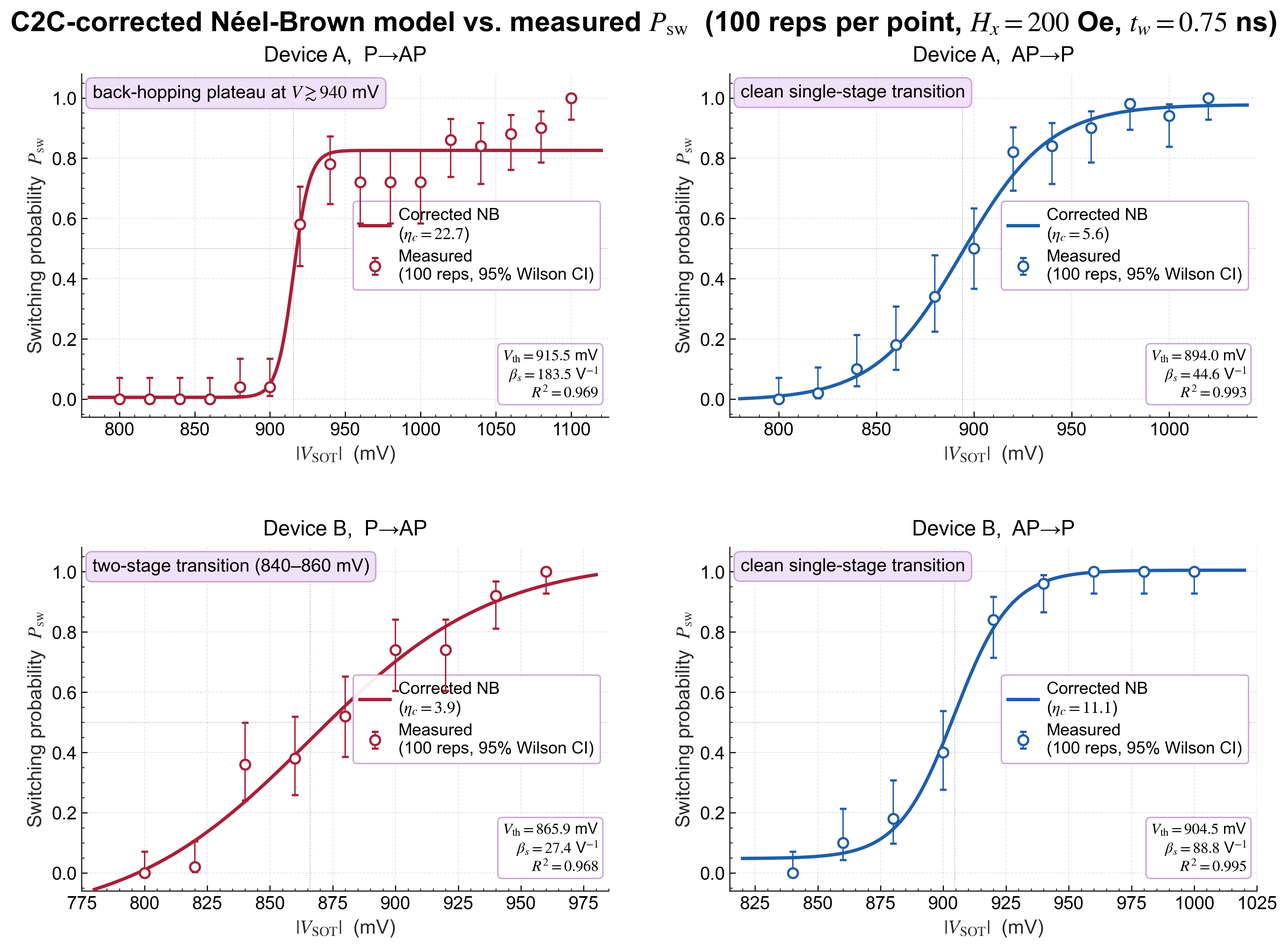
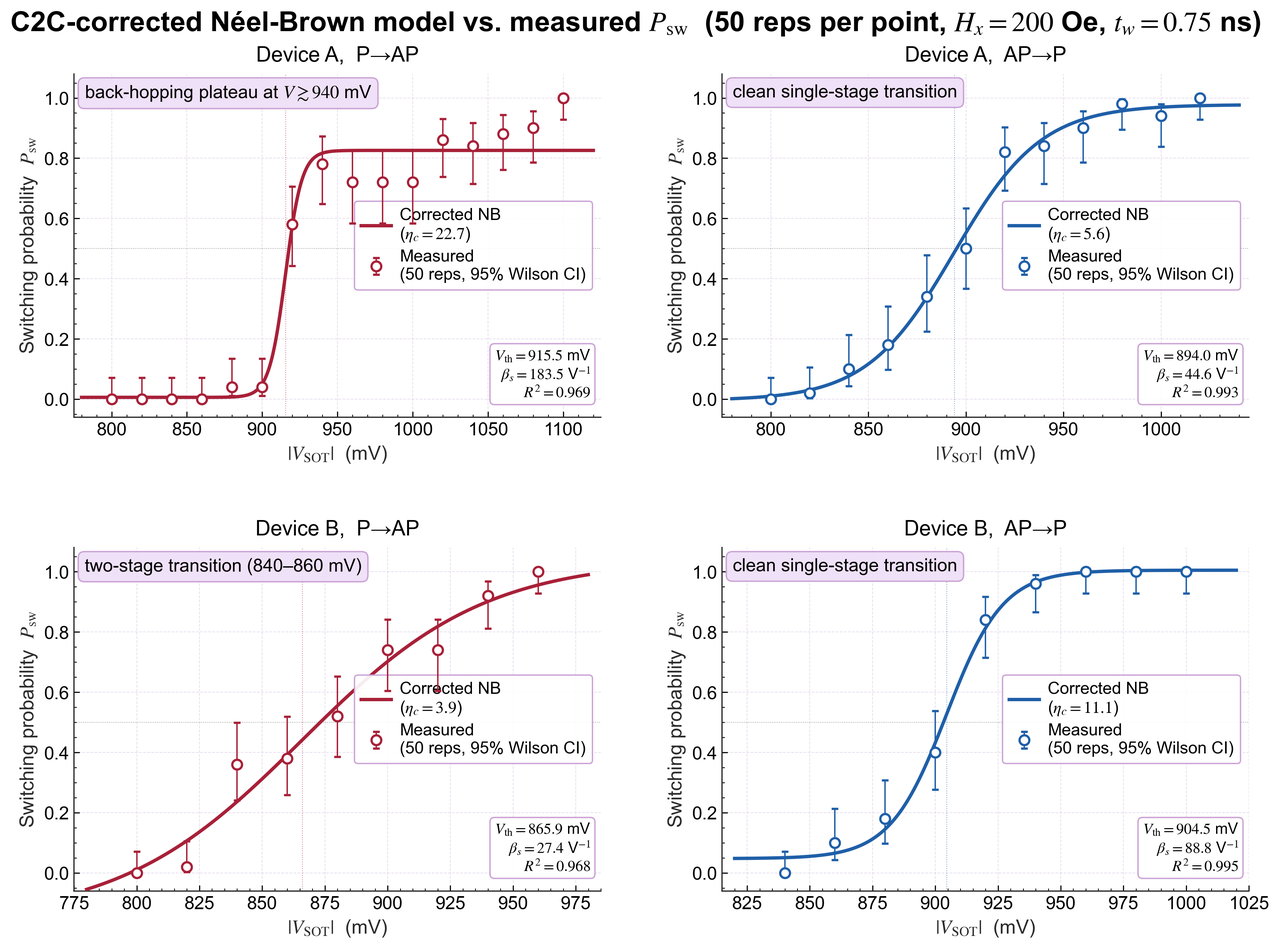
fix(ch02): close the gaps the direction-swap verification found
Seven follow-ups to c1c1195, all found by an adversarial pass over that
commit:

- The two LaTeX-subscript direction labels were missed by the swap (the
  script matched Unicode arrows and $\to$ but not \mathrm{AP\to P}):
  the 2.3.2 log-linear fitted laws and note-e5-stray's splitting
  definition both contradicted the tables they sit beside. Now the
  positive branch is V_{P->AP} = 0.82 - 0.17 ln t and the splitting is
  written V_th^{P->AP} - V_th^{AP->P}, matching Tables 2.7/2.8 and
  scripts/15's README.
- fig 2.14 drew n = 50 error bars while five in-figure strings still said
  '100 reps'; the count is now interpolated from N_CYCLES and the figure
  is regenerated.
- Section 2.3.6 quoted the 2.3.2 protocol as K = 100 in three places
  including the fig 2.19 caption, and fig 2.19 baked K = 100 into the
  plot. All now use K = 50 (K_REF, hoisted above its first use), and the
  claim that K = 100 'suffices for curve characterisation' is rewritten
  honestly: at K = 50 the mid-range 95% half-width is 14.0% (the
  regenerated figure prints exactly that), so K supports the fitted
  parameters rather than single-point probabilities, and epsilon = 0.1 at
  mid-range needs K >~ 106.
- run_e5.py kept its historical p2ap/ap2p keys (renaming them would
  invalidate the committed JSON filenames) but its docstring state map and
  plot legend still read backwards; the labels are corrected, the keys are
  documented as historical, and the panel is regenerated.
[…]

diff --git a/scripts/08_sampling_effect/hw_sampling_reliability.py b/scripts/08_sampling_effect/hw_sampling_reliability.py
@@ -29,6 +29,10 @@ import matplotlib.pyplot as plt
 import matplotlib.ticker as mticker
 from matplotlib.gridspec import GridSpec
 
+# Repetition count of the §2.3.2 characterisation protocol: the committed
+# per-shot records in 05_experimental_raw_data hold 50 cycles per voltage.
+K_REF = 50
+
 # ── Style ────────────────────────────────────────────────────────────────
 THU_DEEP, THU_MID, THU_SOFT, THU_PALE, THU_TINT = \
     "#660874", "#8B3A9E", "#A966BE", "#C99FD4", "#EFE0F7"
@@ -363,8 +367,8 @@ K_guide = K0 * (e0 / eps_guide)**2
 ax_f.loglog(eps_guide * 100, K_guide, color=THU_PALE, lw=1.0, ls=":",
             label=r"$\propto \varepsilon^{-2}$ guide", zorder=3)
 
-ax_f.axhline(100, color=CHARCOAL, lw=0.8, ls=":", alpha=0.55)
-ax_f.text(1.0, 110, r"$K = 100$",
+ax_f.axhline(K_REF, color=CHARCOAL, lw=0.8, ls=":", alpha=0.55)
+ax_f.text(1.0, K_REF * 1.1, rf"$K = {K_REF}$",
           color=CHARCOAL, ha="left", va="bottom")
 
 ax_f.set_xlabel(r"Target precision  $\varepsilon$ (%)")
@@ -387,13 +391,12 @@ print(f"\nSaved  {outpath}")
 plt.close(fig)
 
 # ═════════════════════════════════════════════════════════════════════════
-# 7. §2.3.3 K = 100 context
+# 7. §2.3.2 characterisation-protocol context
 # ═════════════════════════════════════════════════════════════════════════
 print()
 print("=" * 78)
-print("  Context: the §2.3.3 K = 100 characterisation protocol")
+print(f"  Context: the §2.3.2 K = {K_REF} characterisation protocol")
 print("=" * 78)
-K_REF = 100
 for p in PS:
     lo, hi = 1e-4, 0.5
     for _ in range(60):
@@ -403,5 +406,5 @@ for p in PS:
         else:
             lo = mid
     eps_95 = hi
-    print(f"  p = {p:.1f}:  at K = 100, 95% CI half-width  ε ≈ "
+    print(f"  p = {p:.1f}:  at K = {K_REF}, 95% CI half-width  ε ≈ "
           f"{eps_95:.4f}  ({eps_95*100:.2f}%)")

diff --git a/scripts/15_bias_field_effects/run_e5.py b/scripts/15_bias_field_effects/run_e5.py
@@ -13,8 +13,14 @@ features the macrospin picture reproduces:
   (iii) two-segment transitions (not expected from a single macrospin).
 
 Directions at the fig 2.11 workpoint (0.75 ns, Cayley, self-heating ON):
-  p2ap: pap=1 (start m_z ~ -1 = P), drive -I, target m_z = +1.
-  ap2p: pap=0 (start m_z ~ +1 = AP), drive +I, target m_z = -1.
+  p2ap (key kept for the on-disk artifact names): pap=1, i.e. start
+      m_z ~ -1 = AP, drive -I, target m_z = +1 = P. This is an AP->P event.
+  ap2p (likewise historical): pap=0, start m_z ~ +1 = P, drive +I,
+      target m_z = -1 = AP. This is a P->AP event.
+  The two keys are named backwards relative to the physics (m_z = +1 is the
+  parallel state, see CLAIMS.md); they are retained only so the committed
+  e5_*.json filenames stay valid. Every human-facing label uses the physical
+  direction.
 
 Modes:
   python run_e5.py --direction p2ap --hstray 50    # -> e5_p2ap_h50.json
@@ -149,8 +155,9 @@ def analyze():
         for d in runs:
             if d["hstray_oe"] != h:
                 continue
-            c, lbl = (NAVY, "P" + r"$\rightarrow$" + "AP") if d["direction"] == "p2ap" \
-                else (CRIMSON, "AP" + r"$\rightarrow$" + "P")
+            # the "p2ap" key runs pap=1 / -I, which is physically AP->P
+            c, lbl = (NAVY, "AP" + r"$\rightarrow$" + "P") if d["direction"] == "p2ap" \
+                else (CRIMSON, "P" + r"$\rightarrow$" + "AP")
             ax.plot(d["grid_uA"], d["psw"], "o-", ms=4, lw=1.2, color=c, label=lbl)
         ax.axhline(0.5, color="gray", lw=0.5, ls=":")
         ax.set_title(rf"$H_z$ = {h:.0f} Oe", fontsize=12)

diff --git a/scripts/07_process_variability/sigmoid_fig.py b/scripts/07_process_variability/sigmoid_fig.py
@@ -3,8 +3,8 @@ Generate Figure 2.3-4 — the four 0.75 ns Sigmoid measurements (same-batch),
 clearly separated from the external 5 ns Sigmoid reference (different batch).
 
 Data source: each point's Psw is encoded in the measurement filename
-(e.g. 'device4pulse width_0.750 ns V_SOT 920.0 mV Hx 200 Oe Psw= 0.580.txt'),
-100 cycle repetitions per voltage.
+(e.g. 'device4pulse width_0.750 ns V_SOT 920.0 mV Hx 200 Oe Psw= 0.580.txt');
+the per-shot records in 05_experimental_raw_data hold 50 cycles per voltage.
 """
 
 import numpy as np
@@ -187,7 +187,7 @@ for (i, j), (dev, direction) in layout.items():
                 markerfacecolor="white", markeredgecolor=col,
                 markeredgewidth=1.6,
                 ecolor=col, elinewidth=1.0, capsize=2.5, zorder=10,
-                label="Measured" "\n" r"(100 reps, 95% Wilson CI)")
+                label="Measured" "\n" rf"({N_CYCLES} reps, 95% Wilson CI)")
 
     ax.axhline(0.5, color=CHARCOAL, lw=0.5, ls=":", alpha=0.5)
     ax.axvline(fit["Vth"], color=col, lw=0.6, ls=":", alpha=0.55)
@@ -220,7 +220,7 @@ for (i, j), (dev, direction) in layout.items():
 
 fig.suptitle(
     r"C2C-corrected Néel-Brown model vs. measured $P_{\rm sw}$  "
-    r"(100 reps per point, $H_x = 200$ Oe, $t_w = 0.75$ ns)",
+    rf"({N_CYCLES} reps per point, $H_x = 200$ Oe, $t_w = 0.75$ ns)",
     y=0.965,
 )
 fig.savefig(OUTDIR + "Chapter02_local_14.png", dpi=300, bbox_inches="tight")

diff --git a/article/chapter02.md b/article/chapter02.md
@@ -893,7 +893,7 @@ $$
 由滞回回线的电阻跳变点提取各脉宽下的正负向临界电压后，以$$\ln(t_w)$$为自变量绘制$$V_{\mathrm{th}}$$的依赖关系，得到如图2.13(b)所示的严格线性趋势。对Device A两个方向分别进行线性回归得到拟合关系式
 
 $$
-V_{\mathrm{AP\to P}}(t_w) = 0.82 - 0.17\ln(t_w/\mathrm{ns})\ \mathrm{V},\qquad V_{\mathrm{P\to AP}}(t_w) = -0.79 + 0.18\ln(t_w/\mathrm{ns})\ \mathrm{V},
+V_{\mathrm{P\to AP}}(t_w) = 0.82 - 0.17\ln(t_w/\mathrm{ns})\ \mathrm{V},\qquad V_{\mathrm{AP\to P}}(t_w) = -0.79 + 0.18\ln(t_w/\mathrm{ns})\ \mathrm{V},
 $$
 
 两个方向的决定系数$$R^2$$均在0.995以上，证实在所测0.75–5 ns范围内临界写入电压与脉冲宽度的对数呈严格线性依赖。该对数依赖关系是热激活翻转区的核心特征，是后续反推Néel-Brown模型参数的直接依据。
@@ -1016,7 +1016,7 @@ $$
 表2.9表明NB模型能够正确预测$$V_{\mathrm{th}}$$，却系统性低估了实测Sigmoid斜率。前者说明脉宽扫描反推出的热激活参数是可信的；后者说明单畴NB-Gumbel分布不能直接解释循环间概率分布的宽度。本文将二者分开处理，把阈值标度归入热激活势垒$$\Delta_{\mathrm{pulse}}$$，把分布形态差异归入C2C收窄因子$$\eta_c = \beta_s^{\mathrm{meas}}/\beta_s^{\mathrm{NB}}$$。
 
 主基准曲线 (Device A、AP→P) 实测$$\eta_c > 1$$的主体可由热辅助进动区的动力学相干性解释，这一归因经2.2节宏自旋求解器直接核验：在标定工作点对过渡区做加密Monte Carlo扫描并以同一四参数Sigmoid拟合，sLLG给出斜率$$\beta_s^{\mathrm{sLLG}} = 33.8\pm13.5\,\mathrm{V^{-1}}$$ (95%置信区间)，显著高于NB外推的$$7.94\,\mathrm{V^{-1}}$$，与实测$$44.6\,\mathrm{V^{-1}}$$在区间内一致，按对数计弥合了$$\eta_c$$差距的约84%[^note-eta-sllg]。$$t_w = 0.75\,\mathrm{ns}$$位于纯热激活 (长脉宽、低电压) 与纯进动翻转 (短脉宽、高电压) 之间的机制交叉区，翻转事件获得部分相干性，C2C分布因此窄于纯热激活Gumbel极限；该收窄在单畴图像内即可产生，Néel-Brown解析式之所以未能刻画，是因为速率律只保留了能垒统计而丢弃了进动动力学。就主基准曲线而言，亚畴协同跃迁等超出宏自旋自由度的机制只需解释残余的少部分斜率差；表2.9中$$\eta_c$$更高的其余三条曲线能否同样归因，尚待逐条仿真核验。P→AP方向同时出现回跳平台与两段过渡而AP→P方向基本不出现的事实，一个自然的候选解释是参考层杂散场的非对称调制；杂散场注入检验的结果分为两层：z向杂散场使两方向阈值线性劈裂，$$H_z\approx25\,\mathrm{Oe}$$即产生与主基准器件实测同量级、同方向的阈值不对称，但回跳平台的方向选择性与两段过渡均未随之出现——阈值不对称可由杂散场定量解释，P→AP特有的回跳形态与两段过渡则仍需宏自旋之外的机制[^note-e5-stray]。
-[^note-e5-stray]: 注入设置沿用图2.11口径 (Cayley积分器、自热开启)，每方向、每场值11点×150条轨迹，两方向分别以初态与电流极性实现 (AP→P取$$-I$$、P→AP取$$+I$$)。$$H_z=0/25/50/100\,\mathrm{Oe}$$下阈值劈裂$$\Delta V_{\mathrm{th}}=V_{\mathrm{th}}^{\mathrm{AP\to P}}-V_{\mathrm{th}}^{\mathrm{P\to AP}}=-4/+27/+74/+144\,\mathrm{mV}$$，各值的MC统计分辨率约$$11$$–$$16\,\mathrm{mV}$$ ($$H_z=0$$对照组由此在分辨率内对称)；$$25\,\mathrm{Oe}$$量级即与主基准器件Device A的实测两方向差相当 (表2.6中Sigmoid口径$$21.5\,\mathrm{mV}$$、滞回截距口径约$$30\,\mathrm{mV}$$)，且劈裂方向一致 (P→AP更高)，Device B两方向差符号相反，与器件间残余场取向差异相容；两方向的过驱平台带在各场值下均处于$$0.68$$–$$0.83$$，未出现与实测对应的一致方向选择性，各扫描曲线亦均为单段上升进入平台、无两段结构。
+[^note-e5-stray]: 注入设置沿用图2.11口径 (Cayley积分器、自热开启)，每方向、每场值11点×150条轨迹，两方向分别以初态与电流极性实现 (AP→P取$$-I$$、P→AP取$$+I$$)。$$H_z=0/25/50/100\,\mathrm{Oe}$$下阈值劈裂$$\Delta V_{\mathrm{th}}=V_{\mathrm{th}}^{\mathrm{P\to AP}}-V_{\mathrm{th}}^{\mathrm{AP\to P}}=-4/+27/+74/+144\,\mathrm{mV}$$，各值的MC统计分辨率约$$11$$–$$16\,\mathrm{mV}$$ ($$H_z=0$$对照组由此在分辨率内对称)；$$25\,\mathrm{Oe}$$量级即与主基准器件Device A的实测两方向差相当 (表2.6中Sigmoid口径$$21.5\,\mathrm{mV}$$、滞回截距口径约$$30\,\mathrm{mV}$$)，且劈裂方向一致 (P→AP更高)，Device B两方向差符号相反，与器件间残余场取向差异相容；两方向的过驱平台带在各场值下均处于$$0.68$$–$$0.83$$，未出现与实测对应的一致方向选择性，各扫描曲线亦均为单段上升进入平台、无两段结构。
 [^note-eta-sllg]: 核验设置与表2.9的$$\eta_c$$口径一致：Device A、AP→P、$$t_w=0.75\,\mathrm{ns}$$、保模长Cayley积分器、自热开启，过渡区13个电压点、每点$$10^3$$条独立轨迹，四参数logistic拟合 ($$R^2=0.995$$)，区间取拟合协方差的95%置信半宽。斜率阶梯为$$\beta_s^{\mathrm{NB}}=7.94\to\beta_s^{\mathrm{sLLG}}=33.8\to\beta_s^{\mathrm{meas}}=44.6\,\mathrm{V^{-1}}$$，对数份额$$\ln(33.8/7.94)/\ln(44.6/7.94)\approx0.84$$，置信下界对应约0.55。同一扫描还复核了图2.11过驱平台的存在及其稳健性：$$0.97$$–$$1.24\,\mathrm{V}$$区间仿真$$P_{\mathrm{sw}}$$平坦于$$0.70$$–$$0.78$$，抽检$$1.09/1.55\,\mathrm{V}$$两点对脉后判定窗$$3.25/10/50\,\mathrm{ns}$$不敏感，$$1.55\,\mathrm{V}$$处平台约$$0.81$$，与图2.11在更宽电流范围报告的$$0.75$$–$$0.85$$平台在统计区间内一致，说明平台源于脉冲期间的过驱进动随机化而非读出判定口径；实测AP→P至其数据上限$$\approx1.02\,\mathrm{V}$$已饱和至1，仿真平台反而与实测P→AP方向的回跳平台形态相近，该模型-实验分歧与正文方向非对称问题同源；杂散场注入检验 (见正文同段) 未再现平台的方向选择性，该分歧仍需宏自旋之外的机制解释。
 
 NB反推参数的物理口径还可用同一求解器做跨脉宽闭环核验：固定0.75 ns单点标定的$$\theta_{\mathrm{SH}}$$，对全部实测脉宽及两个内插脉宽 (1.5/3 ns) 仿真50%阈值，再做与实验完全相同的对数线性反推 (图2.13(d))。结果分为两层：标定锚点本身精确复现，$$V_{\mathrm{th}}^{\mathrm{sim}}(0.75\,\mathrm{ns})=893.3\,\mathrm{mV}$$与实测$$894.0\,\mathrm{mV}$$偏差$$0.7\,\mathrm{mV}$$、小于单点MC统计分辨率约$$8\,\mathrm{mV}$$；且内禀势垒约48.5的宏自旋在纳秒驱动下确实自发给出远浅于内禀值的有效势垒 ($$\Delta_{\mathrm{pulse}}^{\mathrm{sim}}\approx10.2$$)，2.3.3节动态有效势垒的图像由此获得动力学依据。但迁移只是部分成立：仿真对数斜率$$b^{\mathrm{sim}}\approx87\,\mathrm{mV}$$只有实验$$175\,\mathrm{mV}$$的一半，$$V_{\mathrm{th}}^{\mathrm{sim}}$$相对实验对数线性律的偏差从0.75 ns处的$$+5.7\%$$ (该本底对应表2.9中Sigmoid口径相对滞回外推口径的既有偏差+6.0%，两处参照线相差$$\ln2$$项) 单调增至5 ns处的$$+40.5\%$$[^note-e1-transfer]。这为行为级标定划出适用边界：$$\theta_{\mathrm{SH}}=0.066$$是0.75 ns工作点的有效参数，本文下游各章调用的写入概率接口均固定于该工作点、处于标定闭环之内；跨脉宽外推则须按目标脉宽重新标定，或引入超出单一$$\theta_{\mathrm{SH}}$$标量的机制修正。
@@ -1181,7 +1181,7 @@ $$
 
 **图2.18** D2D传递函数$$\hat{\mathcal{F}}(N,\mathrm{CV}_\Delta)$$估计量对Monte Carlo采样数$$N$$的敏感度($$R = 40$$独立种子，Device A, AP→P, $$t_w = 0.75\,\mathrm{ns}$$；$$\mathcal{F}_{\mathrm{ref}}$$由$$N_{\mathrm{ref}} = 50000$$给出)。(a)$$\hat{\mathcal{F}}$$的种子平均值与5至95%分位带随$$N$$的变化，三条水平点线为对应$$\mathcal{F}_{\mathrm{ref}}$$，PDK基线(琥珀)分位带最窄、严重工况(红)最宽但均围绕各自参考值收敛。(b)种子间标准差$$\sigma(\hat{\mathcal{F}})$$对数-对数图，三条实线与$$\propto N^{-1/2}$$参考虚线(黑)斜率相同，验证中心极限定理标度。(c)相对标准差$$\sigma(\hat{\mathcal{F}})/\langle\hat{\mathcal{F}}\rangle$$(百分比)映射到$$\beta^{\mathrm{eff}}$$预测的相对误差，两条横向点线标示1%与2%精度目标；PDK基线在$$N\geq 100$$即可持续低于1%水平。(d)不同精度容差(1%, 2%, 5%)下满足95%置信度的最小$$N$$柱状图，数值由$$N^{-1/2}$$标度拟合与持久单调二分搜索精确迭代得到，整数精度；PDK基线下2%精度仅需$$N = 57$$，5%精度全部三档工况均可压缩至$$N\leq 143$$。
 
-**硬件端：sMTJ作为Bernoulli随机源的运行时采样数。** 硬件端每次采样对应器件的一次物理写入-读取循环，受限于能耗0.78 pJ/次、延迟0.75 ns/次与器件耐久性。该循环成立的前提是读出不改写被采样的比特，这一前提可由求解器直接检验：以2.3.1节的10 mV读偏压保持10 ns、SOT电流置零，300次读取中未观测到扰动；提高偏压至$$0.2\,\mathrm{V}$$仍未观测到扰动，至$$0.4\,\mathrm{V}$$才出现 (13/300)，$$0.6\,\mathrm{V}$$以上几乎必然翻转。按驱动隧穿电流计，读出工作点的$$1.0\,\mu\mathrm{A}$$与首次观测到扰动的$$46\,\mu\mathrm{A}$$相差约46倍。关断对照表明该扰动由隧穿电流的自旋转移力矩驱动，单独保留VCMA不足以引发扰动；在所测读偏压极性下，受威胁的只是初态$$m_z\approx-1$$的势阱，初态$$m_z\approx+1$$在全部偏压下均未被扰动[^note-e8b-read]。在概率表征阶段$$K$$决定$$P_{\mathrm{sw}}$$曲线拟合的置信度(2.3.2节采用$$K = 100$$)，在随机比特流算术中$$K$$决定数值精度与比特流长度，在PBNN推断中$$K$$决定单次前向传播中每个节点的采样次数，$$K$$的压缩直接映射到每概率输出的能耗与吞吐率。与建模端不同，硬件采样问题存在可解析的精确解：$$\hat p_K = K^{-1}\sum_{i=1}^K X_i$$中的$$X_i\sim\mathrm{Ber}(p)$$独立同分布，$$K\hat p_K\sim\mathrm{Bin}(K, p)$$，覆盖率可由Binomial CDF直接求出。下面并列对比三条分析路径(精确Binomial、Monte Carlo、CLT近似)以明确各自的有效性边界。
+**硬件端：sMTJ作为Bernoulli随机源的运行时采样数。** 硬件端每次采样对应器件的一次物理写入-读取循环，受限于能耗0.78 pJ/次、延迟0.75 ns/次与器件耐久性。该循环成立的前提是读出不改写被采样的比特，这一前提可由求解器直接检验：以2.3.1节的10 mV读偏压保持10 ns、SOT电流置零，300次读取中未观测到扰动；提高偏压至$$0.2\,\mathrm{V}$$仍未观测到扰动，至$$0.4\,\mathrm{V}$$才出现 (13/300)，$$0.6\,\mathrm{V}$$以上几乎必然翻转。按驱动隧穿电流计，读出工作点的$$1.0\,\mu\mathrm{A}$$与首次观测到扰动的$$46\,\mu\mathrm{A}$$相差约46倍。关断对照表明该扰动由隧穿电流的自旋转移力矩驱动，单独保留VCMA不足以引发扰动；在所测读偏压极性下，受威胁的只是初态$$m_z\approx-1$$的势阱，初态$$m_z\approx+1$$在全部偏压下均未被扰动[^note-e8b-read]。在概率表征阶段$$K$$决定$$P_{\mathrm{sw}}$$曲线拟合的置信度(2.3.2节采用$$K = 50$$)，在随机比特流算术中$$K$$决定数值精度与比特流长度，在PBNN推断中$$K$$决定单次前向传播中每个节点的采样次数，$$K$$的压缩直接映射到每概率输出的能耗与吞吐率。与建模端不同，硬件采样问题存在可解析的精确解：$$\hat p_K = K^{-1}\sum_{i=1}^K X_i$$中的$$X_i\sim\mathrm{Ber}(p)$$独立同分布，$$K\hat p_K\sim\mathrm{Bin}(K, p)$$，覆盖率可由Binomial CDF直接求出。下面并列对比三条分析路径(精确Binomial、Monte Carlo、CLT近似)以明确各自的有效性边界。
 [^note-e8b-read]: 设置为$$I_{\mathrm{SOT}}=0$$、仅在MTJ两端施加读偏压并保持$$10\,\mathrm{ns}$$ (远长于实际读出窗口)，STT与VCMA两条通道同时开启，自热开启，每点300次独立试验，判据为$$m_z$$越过赤道进入另一势阱；只扫描正向读偏压，该极性对$$m_z\approx-1$$势阱是最不利情形。初态$$m_z\approx-1$$的逐偏压结果为$$0/300$$ ($$0.01\,\mathrm{V}$$)、$$0/300$$ ($$0.2\,\mathrm{V}$$)、$$13/300$$ ($$0.4\,\mathrm{V}$$)、$$299/300$$ ($$0.6\,\mathrm{V}$$)、$$300/300$$ ($$0.8$$与$$1.0\,\mathrm{V}$$)；初态$$m_z\approx+1$$在$$0.01$$至$$1.0\,\mathrm{V}$$全部为$$0/300$$。$$10\,\mathrm{mV}$$处的零观测对应每次读$$1.3\%$$的95%置信上界，该上界受试验数限制。扰动起始只被括在$$(0.2,\,0.4]\,\mathrm{V}$$区间内，故数据直接支撑的裕度为电流$$1.0$$对$$21\,\mu\mathrm{A}$$、约21倍，正文引用的46倍以首次观测到扰动的偏压为界。通道对照在$$0.8\,\mathrm{V}$$、初态$$m_z\approx-1$$下进行：单留VCMA为$$0/120$$、单留STT为$$119/120$$，与两通道同开的$$300/300$$一致，说明VCMA不提供力矩、单独不足以引发扰动；该对照位于饱和偏压处，因而不能分辨VCMA能垒调制对扰动阈值本身的影响。初态依赖源自自旋转移力矩的极化方向：正向读偏压把磁化推向$$+z$$，故只有$$m_z\approx-1$$的势阱受威胁。
 
 对任意容差$$\varepsilon > 0$$与置信度$$1-\alpha$$，Binomial精确覆盖率为
@@ -1216,13 +1216,13 @@ $$
 | 0.9 | 0.05 | **147** | 147 | 138.3 | 0.0% | −5.9% |
 | 0.9 | 0.10 | **41** | 41 | 34.6 | 0.0% | −15.6% |
 
-表2.13和图2.19给出运行时$$K$$的设计规则。精确Binomial解保留离散覆盖率阶梯，因此比CLT近似更适合亚百采样区；MC路径可用于验证趋势，但自身噪声可能低估安全阈值，不宜直接作为部署下限。物理上，Sigmoid中段最耗采样，因为$$p(1-p)$$在$$p=0.5$$处最大；饱和区可显著减少重复次数。于是，2.3.2节采用的$$K = 100$$足以支撑曲线表征，而在PBNN推断中还可按节点工作点进行异构采样调度：判决边界附近给更多样本，两端饱和区压缩样本数，把同一精度目标转化为更低能耗。
+表2.13和图2.19给出运行时$$K$$的设计规则。精确Binomial解保留离散覆盖率阶梯，因此比CLT近似更适合亚百采样区；MC路径可用于验证趋势，但自身噪声可能低估安全阈值，不宜直接作为部署下限。物理上，Sigmoid中段最耗采样，因为$$p(1-p)$$在$$p=0.5$$处最大；饱和区可显著减少重复次数。于是，2.3.2节采用的$$K = 50$$在中段每点仅给出约$$\pm14\%$$的95%半宽，其支撑的是整条曲线的拟合参数而非单点概率；若要求单点精度达$$\varepsilon = 0.1$$，中段需$$K\gtrsim106$$。在PBNN推断中还可按节点工作点进行异构采样调度：判决边界附近给更多样本，两端饱和区压缩样本数，把同一精度目标转化为更低能耗。
 
 ---
 
 ![sMTJ硬件Bernoulli采样可靠性分析](figs/Chapter02_local_19.png)
 
-**图2.19** sMTJ硬件Bernoulli采样可靠性分析(Binomial精确解与MC、CLT对照，Device A, AP→P, $$t_w = 0.75\,\mathrm{ns}$$主基准工作点)。六个子面板按两行三列排列。(a)$$p = 0.5$$工作点下$$\hat p_K$$的Binomial概率质量函数在$$K\in\{5, 20, 100, 500\}$$时的离散分布，琥珀阴影带标示$$\varepsilon = 0.05$$误差带，$$K = 5$$时覆盖率为0%、$$K = 500$$达97.2%接近Gaussian极限。(b)$$\sigma(\hat p_K) = \sqrt{p(1-p)/K}$$对数-对数图，三条实线为Binomial精确值、正方形为$$M = 3000$$次MC实测，$$p = 0.1$$与$$p = 0.9$$曲线因对称性完全重合，MC markers与精确线吻合于$$K\geq 3$$全区间。(c)$$p = 0.5$$下精确覆盖率的离散阶梯曲线(三条$$\varepsilon$$水平)与$$M = 500$$的MC 95%置信带叠加，清晰展示局部非单调的阶梯倒退，五角星标示持久单调算法求解的精确$$K_{\mathrm{req}}$$。(d)MC覆盖率估计器在$$(K, p, \varepsilon) = (100, 0.5, 0.10)$$(真值$$\mathrm{cov}_{\mathrm{exact}} = 0.9431$$)的RMSE随replicate数$$M$$的衰减，200次独立seed测得的RMSE与理论$$\sqrt{\mathrm{cov}(1-\mathrm{cov})/M}$$完全吻合，1% RMSE目标对应$$M\approx 500$$。(e)三工作点$$\times$$三精度下三种估计器的$$K_{\mathrm{req}}$$对比(实心柱为精确Binomial、空心正方为MC $$M = 2\times 10^4$$、空心菱形为CLT近似)，MC与精确解符合至$$\pm 5\%$$以内而CLT全区间系统性低估、在$$K\leq 100$$区偏差达15%以上。(f)$$p = 0.5$$下精确$$K_{\mathrm{req}}(\varepsilon)$$从$$\varepsilon = 0.01$$至0.20的双对数曲线，紫色点线标示$$\propto\varepsilon^{-2}$$参考标度，水平点线标示2.3.2节的$$K = 100$$位置。
+**图2.19** sMTJ硬件Bernoulli采样可靠性分析(Binomial精确解与MC、CLT对照，Device A, AP→P, $$t_w = 0.75\,\mathrm{ns}$$主基准工作点)。六个子面板按两行三列排列。(a)$$p = 0.5$$工作点下$$\hat p_K$$的Binomial概率质量函数在$$K\in\{5, 20, 100, 500\}$$时的离散分布，琥珀阴影带标示$$\varepsilon = 0.05$$误差带，$$K = 5$$时覆盖率为0%、$$K = 500$$达97.2%接近Gaussian极限。(b)$$\sigma(\hat p_K) = \sqrt{p(1-p)/K}$$对数-对数图，三条实线为Binomial精确值、正方形为$$M = 3000$$次MC实测，$$p = 0.1$$与$$p = 0.9$$曲线因对称性完全重合，MC markers与精确线吻合于$$K\geq 3$$全区间。(c)$$p = 0.5$$下精确覆盖率的离散阶梯曲线(三条$$\varepsilon$$水平)与$$M = 500$$的MC 95%置信带叠加，清晰展示局部非单调的阶梯倒退，五角星标示持久单调算法求解的精确$$K_{\mathrm{req}}$$。(d)MC覆盖率估计器在$$(K, p, \varepsilon) = (100, 0.5, 0.10)$$(真值$$\mathrm{cov}_{\mathrm{exact}} = 0.9431$$)的RMSE随replicate数$$M$$的衰减，200次独立seed测得的RMSE与理论$$\sqrt{\mathrm{cov}(1-\mathrm{cov})/M}$$完全吻合，1% RMSE目标对应$$M\approx 500$$。(e)三工作点$$\times$$三精度下三种估计器的$$K_{\mathrm{req}}$$对比(实心柱为精确Binomial、空心正方为MC $$M = 2\times 10^4$$、空心菱形为CLT近似)，MC与精确解符合至$$\pm 5\%$$以内而CLT全区间系统性低估、在$$K\leq 100$$区偏差达15%以上。(f)$$p = 0.5$$下精确$$K_{\mathrm{req}}(\varepsilon)$$从$$\varepsilon = 0.01$$至0.20的双对数曲线，紫色点线标示$$\propto\varepsilon^{-2}$$参考标度，水平点线标示2.3.2节的$$K = 50$$位置。
 
 ## 2.4 低势垒sMTJ的随机电报噪声与储备池节点模型
 

diff --git a/docs/maintenance/IMPLEMENTATION_STATUS.md b/docs/maintenance/IMPLEMENTATION_STATUS.md
@@ -47,7 +47,7 @@ Last updated: 2026-07-02 (RC deepening round: RTN node rigor fixes, `rtn/bridge.
 | 2.2.3.2 (sym-symmetry) | **`run_piecewise_terminal_voltage` adds `integrator` / `sigma_SH` / `rng`** to match `run_piecewise_direct_excitation` | `time_series_cases.run_piecewise_terminal_voltage` | Cayley dispatch identical to direct_excitation; norm-preserving even under terminal-voltage piecewise driving |
 | 2.2.3.2 (Cayley rng) | **rng= plumbed through Cayley path** | `switching_vector(rng=...)` → `field(rng=...)` → `stochastic(rng=...)` | Same `Generator(seed)` reproduces Cayley trajectory bit-for-bit; verified by `test_cayley_rng_byte_reproducible` |
 | 2.2.2.7 (chapter doc) | **STT derivation §2.2.2.7** with Slonczewski form, LL conversion, STT↔SOT side-by-side table, and rationale for SOT-as-main-driver |  | Closes the §2.2.1.1 forward reference that earlier promised "STT 详细展开在 2.2.2 节给出" |
-| 2.3.4 (calibration) | **θ_SH calibrated to V_th experiment** | `configs.PhysicalConstantsConfig.theta_SH=0.066` (effective; 0.04 pre-fix, 0.25–0.3 literature β-W); scan in `09_simulation_figures/calibrate_to_experiment.py` | Recalibrated (Cayley) against Device A P→AP `V_th(0.75 ns)=894 mV`: 50%-crossing `V_th^sim=0.895 V` (exact), jointly with `TMR=1.0`, `RA=16.6e-12 Ω·m²`. The corrected P_sw is broader (back-hopping plateau); near-threshold match preserved. `0.25–0.3` accepted for bare-material studies. |
+| 2.3.4 (calibration) | **θ_SH calibrated to V_th experiment** | `configs.PhysicalConstantsConfig.theta_SH=0.066` (effective; 0.04 pre-fix, 0.25–0.3 literature β-W); scan in `09_simulation_figures/calibrate_to_experiment.py` | Recalibrated (Cayley) against Device A AP→P `V_th(0.75 ns)=894 mV`: 50%-crossing `V_th^sim=0.895 V` (exact), jointly with `TMR=1.0`, `RA=16.6e-12 Ω·m²`. The corrected P_sw is broader (back-hopping plateau); near-threshold match preserved. `0.25–0.3` accepted for bare-material studies. |
 | 2.3 (analysis tooling) | NB log-linear fit, Sigmoid fit + Wilson CI, Brinkman variability budget + D2D MC, binomial coverage + sampling sensitivity | [`analysis/`](../../src/vgsot_sim/analysis/) sub-package | Used by 06/07/08 chapter scripts in place of inline math |
 | 2.4 (RC) | **Random-telegraph-noise (RTN) node primitive** — continuous-time 2-state Markov hopping with closed-form ⟨s⟩=tanh(ΔV/Vc0) and τ(V)=1/(r↑+r↓); rate floored at 1/τ0 (physical domain \|V\|<Vc0); exact propagator (V const within a step); `from_nb_fit` factory (ns units) | [`rtn/telegraph.py`](../../src/vgsot_sim/rtn/telegraph.py) | A single **candidate reservoir node** (not a reservoir: no input weights / coupling / readout); `tests/test_rtn_telegraph.py` (10). `V` is a phenomenological tilt, not `V_MTJ`. Complements (does not replace) the pulse-switching LLG. Bridge validation + reservoir layer: [`scripts/10_rtn_reservoir/`](../../scripts/10_rtn_reservoir/). |
 | 2.2 (second engine) | **Full-dynamics LLG Verilog-A** — `m(t)` integrated internally (`ddt` state), per-formula aligned to `switching_vector`/`field`; PMA+VCMA+ellipsoid-demag+SOT(DL/FL)+STT; harness-driven thermal field (`hx,hy,hz`); compiles in OpenVAF, runs in ngspice | [`va/llg/vgsot_llg.va`](../../va/llg/vgsot_llg.va), [`va/README.md`](../../va/README.md) | Cross-engine: m_z(t) matches the Python engine to max ~0.008 over 0–3 ns (`va/llg/cross_validate_summary.json`); `tests/test_cross_engine_va.py` (skips without OpenVAF/ngspice) |
@@ -80,7 +80,7 @@ _(empty — all previously-tracked high-priority items moved to Implemented abov
 
 These are correct enough to use but worth being aware of when comparing against literature:
 
-1. **`initialize.py` PAP–angle convention vs `tmr.py` resistance convention**. `initialize.py` sets `θ ≈ π` for `PAP=1` (labelled "Parallel"), whereas `tmr.py` returns $R_P$ at $m_z = +1$ (i.e. $\theta \approx 0$). The flat resistance at the start of a "PAP=1, parallel" simulation is therefore $R_{AP}$, not $R_P$. The two conventions cancel inside any single full simulation, but the labelling will surprise readers expecting one of the two conventions to dominate.
+1. **`initialize.py` PAP name vs `tmr.py` resistance convention — RESOLVED 2026-07-21.** There was never a physics conflict: `tmr.py` defines $m_z = +1$ as parallel ($R_P \approx 5$ kΩ), and `initialize.py` sets `θ ≈ π` for `PAP=1`, so a `PAP=1` run genuinely *starts* antiparallel at $R_{AP} \approx 10$ kΩ and, with `target_mz=+1`, ends parallel — an AP→P event. Only the `PAP` name (and a docstring that called it "Parallel") read backwards; both are now corrected, and the audit is recorded in `CLAIMS.md`. The same audit found that the *experimental* direction labels had been inverted by `fit_from_loops.py`, which is fixed too; no numerical result changed.
 
 2. **SOT FL contribution to `dphi/dt` — sign corrected (2026-06)**. Hand-derivation against the standard Gilbert form $\tau_{DL} = -\gamma H_{DL} m\times(m\times\hat\sigma)$, $\tau_{FL} = +\gamma H_{FL} m\times\hat\sigma$ with $\hat\sigma = -\hat{x}$ (as commented in the upstream Verilog-A port, `m_s = (-1, 0, 0)`) matches the code for the H_eff, STT, and DL-SOT contributions to both `dtheta/dt` and `dphi/dt`, and for the FL-SOT contribution to `dtheta/dt`. The FL-SOT contribution to `dphi/dt` previously carried the wrong sign on the `cos(theta)*cos(phi)` term (equivalent to flipping $\hat\sigma_{FL}$ relative to $\hat\sigma_{DL}$), so the spherical-Euler azimuthal precession disagreed with the Cartesian/Cayley stepper by up to ~25%. It has been corrected to `+cos(theta)*cos(phi)`; both integrators now reduce to the SAME right-hand side, regression-tested in `tests/test_integrator_consistency.py` (dm/dt match to <1e-4 as dt→0, R_SOT_FL_DL=0.83). The remaining limitation of the spherical expansion is that it hard-codes $\hat\sigma = -\hat{x}$; for arbitrary $\hat\sigma_{SH}$ use the Cayley integrator, which takes `sigma_SH` as a runtime vector (see "Not implemented: Medium priority" — explicit spin polarisation vector).
 

diff --git a/scripts/05_experimental_raw_data/raw/MAPPING.md b/scripts/05_experimental_raw_data/raw/MAPPING.md
@@ -33,7 +33,7 @@ device{N}pulse width_{T} ns 200 Oe.txt                              ← 完整 R
 - `N` ∈ {2, 4}：物理器件 ID（与所在文件夹的 `device{N}_paper{X}/` 编码一致）
 - `T`：脉冲宽度，单位 ns（0.750、1.000、2.000、5.000）
 - `V`：写入电压，单位 mV，正负号代表脉冲极性
-- `P`：该电压下 100 次重复的成功翻转比例（Wilson 95% 区间在拟合脚本中重新计算）
+- `P`：该电压下 50 次重复的成功翻转比例（Wilson 95% 区间在拟合脚本中重新计算）
 - `Hx 200 Oe`：固定面内偏置场
 
 ## 数据-文件名-代码-结果-文档的一致性

diff --git a/README.md b/README.md
@@ -61,7 +61,7 @@ By default, outputs go to `./result/` — figures as `Chapter02_local_*.png`, ti
 series and sweeps as `*.csv`. Change the output directory with
 `--out_dir my_results`, or disable progress bars with `--no_progress`.
 
-The four cases map to the chapter §2.3.3 Device A P→AP protocol (`t_w = 0.75 ns`
+The four cases map to the chapter §2.3.3 Device A AP→P protocol (`t_w = 0.75 ns`
 write pulse, `V_MTJ = 0`):
 
 ```
